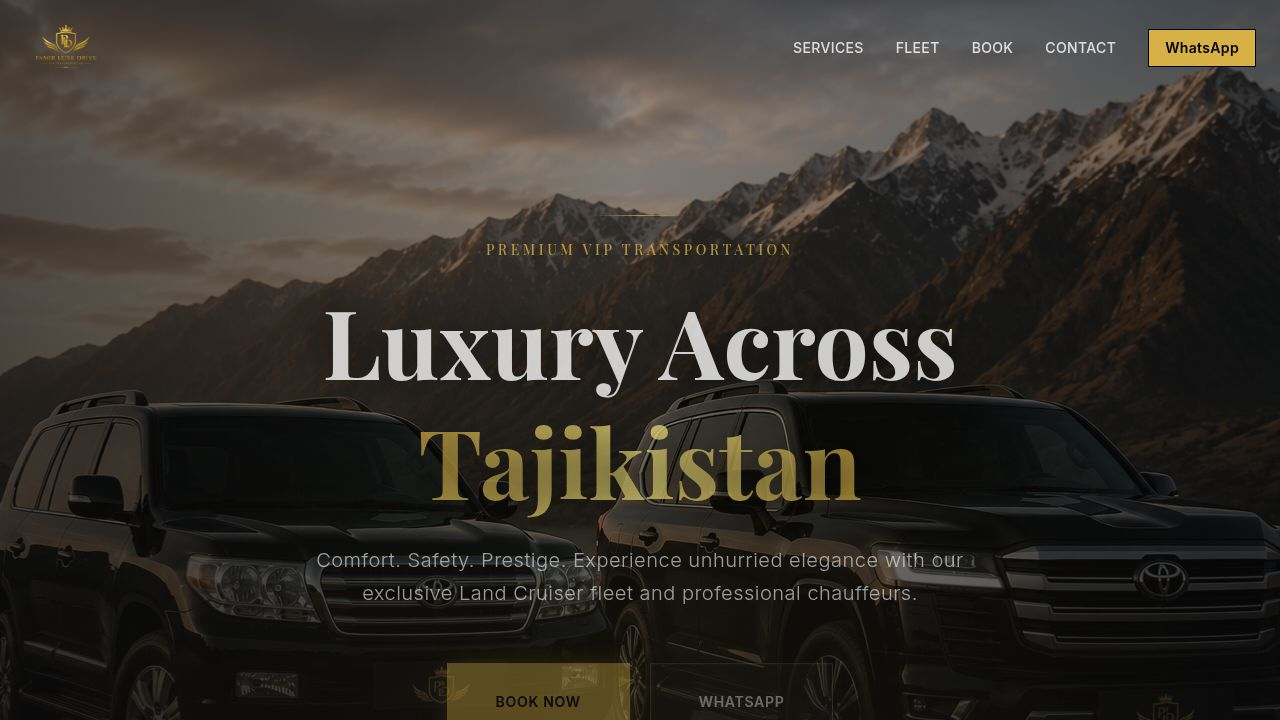
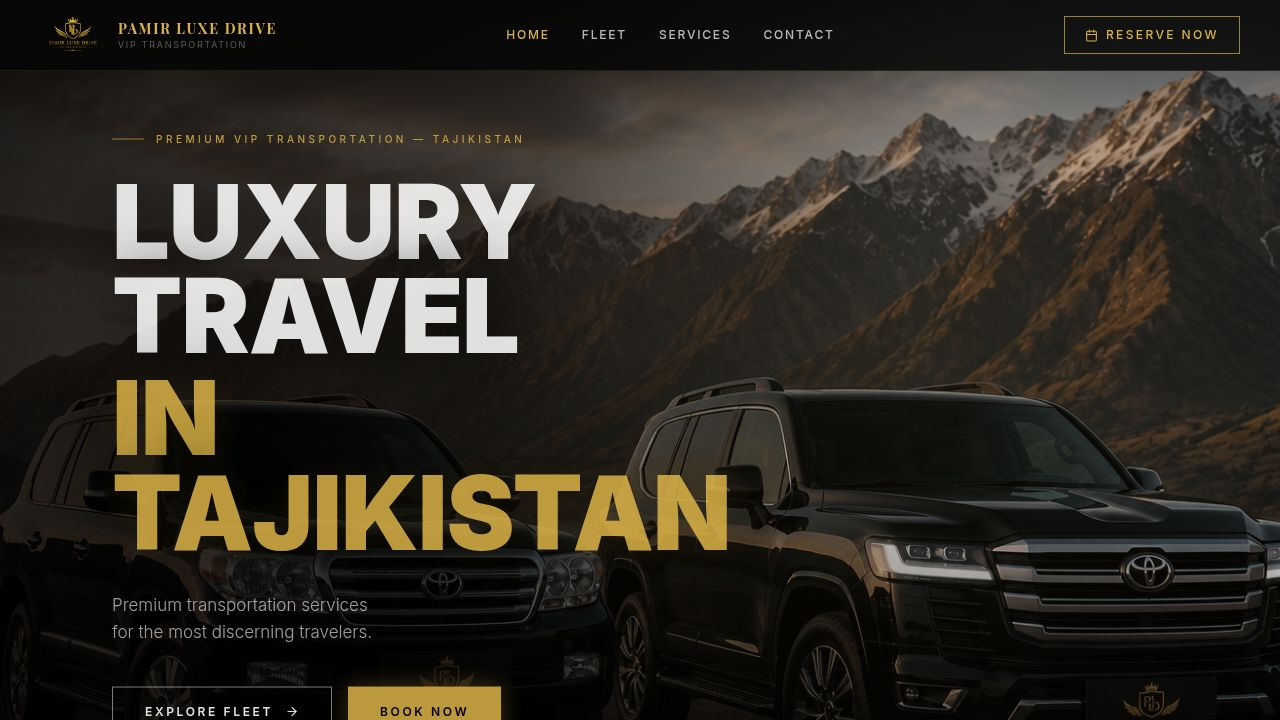
Remove bottom gradient from hero vehicle strip
Remove the bottom gradient overlay div from the Hero component's vehicle strip.

Replit-Commit-Author: Agent
Replit-Commit-Session-Id: 0d4b53e2-e84f-4fda-a5a8-b42de73ee4b4
Replit-Commit-Checkpoint-Type: full_checkpoint
Replit-Commit-Event-Id: 1ecec56a-0b35-4cfd-886d-aa90a80465fe
Replit-Commit-Screenshot-Url: https://storage.googleapis.com/screenshot-production-us-central1/abde20ba-27ac-4da1-bedb-ee9c1b13faa3/0d4b53e2-e84f-4fda-a5a8-b42de73ee4b4/d87UuRq
Replit-Helium-Checkpoint-Created: true

diff --git a/artifacts/tajik-transport/src/components/home/Hero.tsx b/artifacts/tajik-transport/src/components/home/Hero.tsx
@@ -137,8 +137,6 @@ export function Hero() {
                 />
                 {/* Overlay */}
                 <div className="absolute inset-0 bg-black/40 group-hover:bg-black/20 transition-colors duration-400" />
-                {/* Bottom gradient */}
-                <div className="absolute inset-0" style={{ background: "linear-gradient(to top, rgba(0,0,0,0.85) 0%, transparent 55%)" }} />
                 {/* Gold top line on hover */}
                 <div className="absolute top-0 left-0 right-0 h-[2px] bg-primary scale-x-0 group-hover:scale-x-100 transition-transform duration-400 origin-left" />
                 {/* Label */}